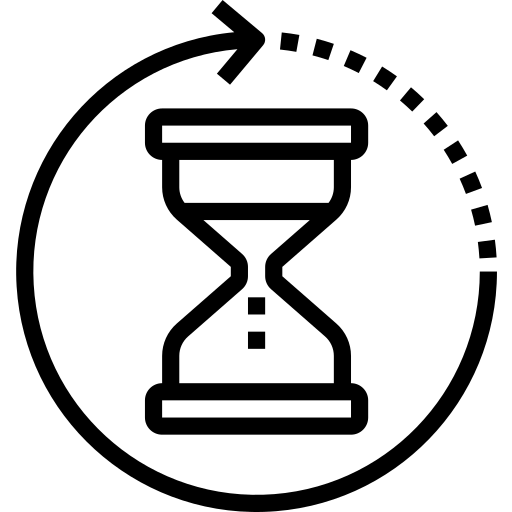
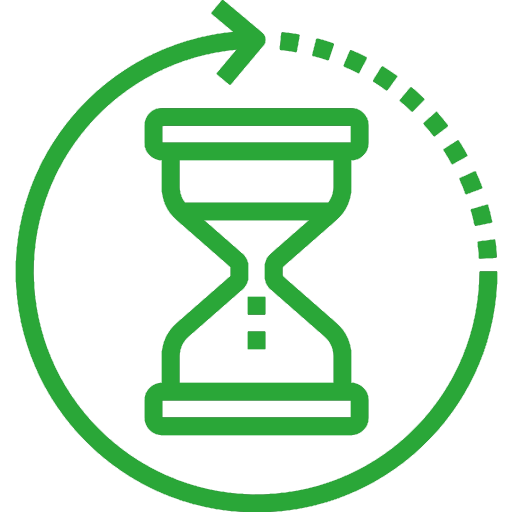
update recipe show

Changed region(s): [[0.0312, 0.0, 1.0, 1.0], [0.9062, 0.375, 0.9688, 0.4375]]

diff --git a/src/components/recipes/RecipeShow.jsx b/src/components/recipes/RecipeShow.jsx
@@ -39,13 +39,13 @@ function RecipeShow() {
   let content = <div />
 
   if (recipe === null || loading === true ) {
-    content = <div className="RecipeShow"><h2>Loading...</h2></div>
+    content = <div className="container-page"><h2>Loading...</h2></div>
   } else if (error) {
-    content = <div className="RecipeShow"><h2>Error while loading recipe...</h2></div>
+    content = <div className="container-page"><h2>Error while loading recipe...</h2></div>
   } else {
     content =
-    <div>
-      <div className="RecipeShowBanner">
+      <div className='RecipeShow'>
+        <div className="RecipeShowBanner">
           <div className="RecipeShowBannerInfos">
             <h2>{recipe.name.toUpperCase()}</h2>
             <div className="RecipeShowBannerSubIcones">
@@ -65,6 +65,7 @@ function RecipeShow() {
           </div>
           <FaFileArrowDown alt="download file" />
         </div>
+
         <div className="RecipeShowIngredients">
           <div className="RecipeShowIngredientsNbPeople">
             <FaUsers  alt="number of people" />
@@ -75,17 +76,17 @@ function RecipeShow() {
           <p>Ingredients :</p>
           <p>TO DO...</p>
         </div>
+
         <div className="RecipeShowInstructions">
           <p>Instructions : </p>
           <p>{recipe.instructions}</p>
         </div>
-      <div/>
-    </div>
+      </div>
   }
 
 
   return (
-    <div className="RecipeShow">
+    <div className="container-page">
       <Link to={COLLECTIONS_PATH} className='gobackbtn'>
         <FaArrowLeft />
         <p>Go Back</p>

diff --git a/src/context/recipes.jsx b/src/context/recipes.jsx
@@ -6,6 +6,8 @@ const RecipesContext = createContext();
 
 function ProviderRecipes( { children } ) {
   const [recipes, setRecipes] = useState([]);
+  const [oneRecipe, setOneRecipe] = useState(null);
+
   const [isLoadingRecipes, setIsLoadingRecipes] = useState(true);
   const [errorRecipes, setErrorRecipes] = useState(null);
 
@@ -24,12 +26,29 @@ function ProviderRecipes( { children } ) {
     }
   };
 
+  // FETCH ONE Recipe : fetch to the json server
+  async function fetchOneRecipe(id) {
+    try {
+      const response = await axios.get(`${API_RECIPE_URL}/${id}`);
+      // console.log(response.data);
+      setOneRecipe(response.data);
+      // console.log(oneRecipe);
+    } catch (error) {
+      // console.error(error.message);
+      setErrorRecipes(error);
+    } finally {
+      // console.log('finally');
+      setIsLoadingRecipes(false);
+    }
+  };
+
   // data to share in the app
   const valueToShare = {
     recipes: recipes,
     isLoadingRecipes: isLoadingRecipes,
     errorRecipes: errorRecipes,
     fetchRecipes: fetchRecipes,
+    fetchOneRecipe: fetchOneRecipe
   };
 
   return (

diff --git a/src/styles/recipes/RecipeShow.css b/src/styles/recipes/RecipeShow.css
@@ -1,9 +1,8 @@
 .RecipeShow {
   display: flex;
   flex-direction: column;
-  justify-content: center;
+  align-items: center;
   margin-top: 30px;
-  width: 100%;
 	padding: 50px;
   justify-items: center;
   color: var(--text-recipe-show);
@@ -20,7 +19,6 @@
   display: flex;
   flex-direction: row;
   gap: 10px;
-  width: 80%;
   justify-content: center;
   align-items: first baseline;
 }
@@ -28,12 +26,10 @@
 .RecipeShowBannerInfos {
   display: flex;
   flex-direction: column;
-
 }
 
 .RecipeShowBannerInfos h2 {
   margin: 0;
-
 }
 
 .RecipeShowBannerSubIcones {
@@ -53,8 +49,9 @@
   border: 1px solid var(--green);
   border-radius: 15px;
   width: 80%;
-  margin-top: 20px;
-  padding: 20px;
+  padding-block: 10px;
+  padding-inline: 20px;
+
 }
 
 .RecipeShowIngredientsNbPeople {
@@ -66,6 +63,7 @@
 
   p {
     font-size: 16px;
+    margin: 0;
   }
 }
 
